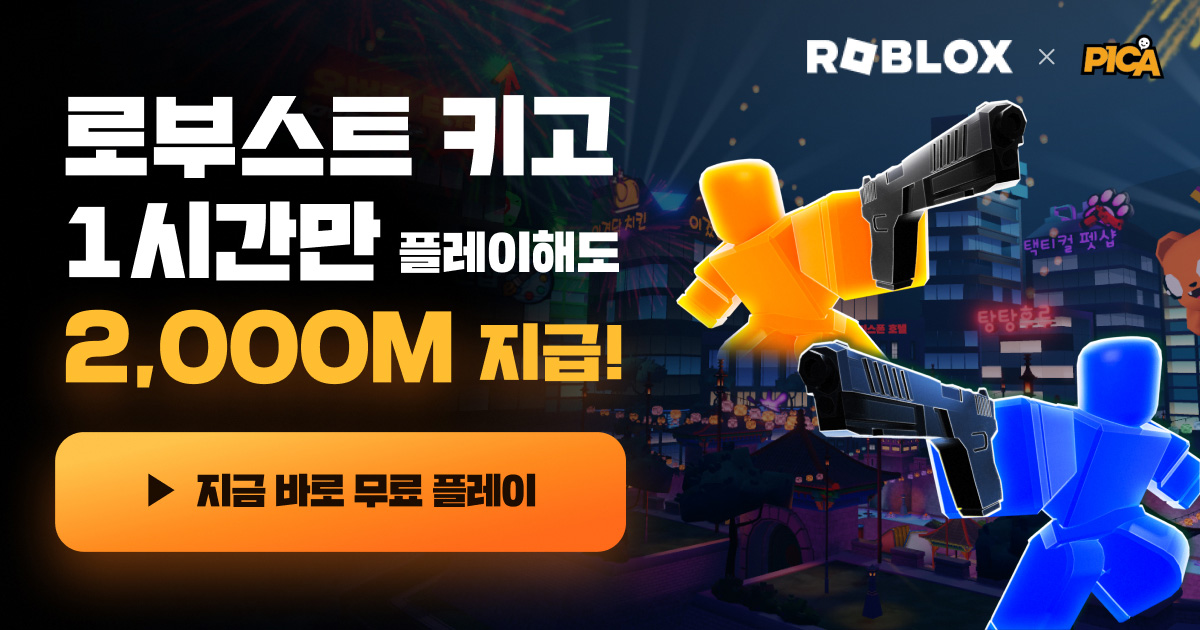
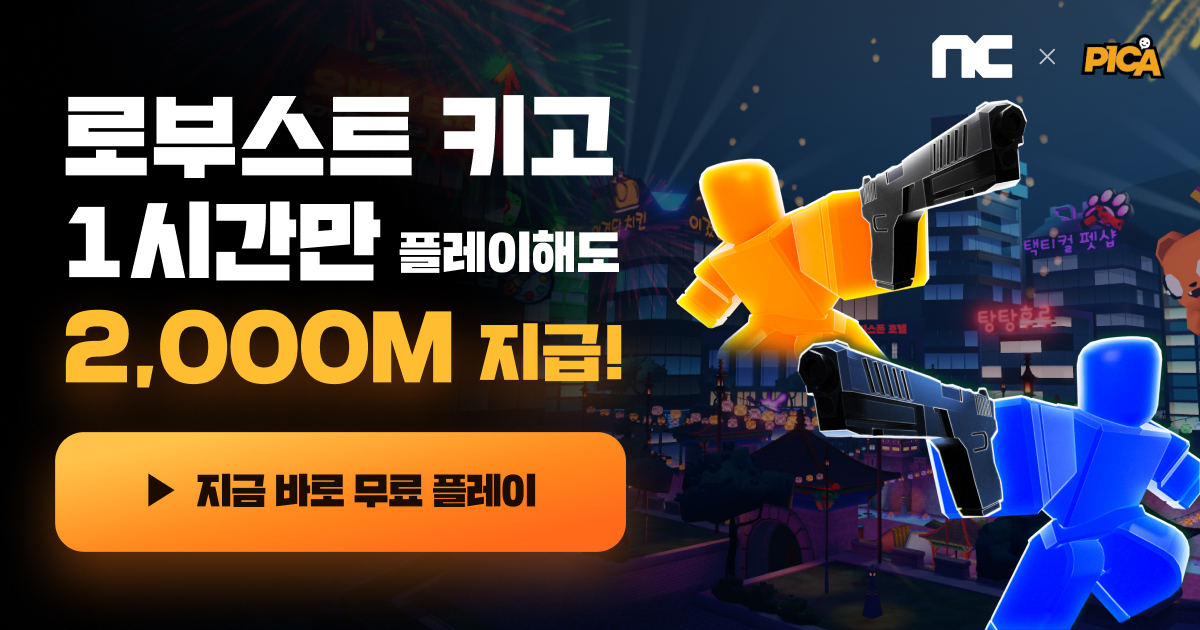
Add files via upload

Changed region(s): [[0.6475, 0.0302, 0.8633, 0.1206], [0.8942, 0.0603, 0.9867, 0.1206]]

diff --git a/index.html b/index.html
@@ -874,13 +874,13 @@ window.__IMG = {
 /* Shared event content — copy kept verbatim from the 기획서 (planning doc). */
 window.EVENT = {
   links: {
-    roboost: "roboost://open",
+    roboost: "http://roboost.gg/start",
     picabang: "https://www.picaplay.com/pcbang/main.do",
     guide: "https://ics.mediaweb.co.kr/_event/20231115_picapayGuide/picapay.html",
   },
   assets: {
     kv: "assets/kv-hero.jpg",
-    roblox: "assets/nc_logo.png",
+    roblox: "assets/NC.png",
     picapc: "assets/picapc_logo.png",
     roboostImg: "assets/launcher.webp",
     roboostLogo: "assets/roboost-logo.png",
@@ -936,7 +936,7 @@ window.EVENT = {
         "로부스트 런처 실행하고,\n오버킬 1시간 이상 플레이하기",
         "피카플레이 APP 또는 크래프트박스\n마이페이지에서 지급된 마일리지 확인하기",
       ],
-      note: "※ 오버킬 외 런처 내 등록된 게임 3종(99 야간 숲, 브레인 롯 훔치기, 댄디스 월드) 플레이 시에도 참여 가능합니다.",
+      note: "※ 오버킬 외 런처 내 등록된 게임 4종 (99 나이트 인더 포레스트, 브레인롯 훔치기, 댄디스 월드, 이베이드) 플레이 시에도 참여 가능합니다.",
     },
   },
   benefits: {
@@ -948,11 +948,12 @@ window.EVENT = {
       { t: "PC방 전용 인게임 코드", d: "PC방에서만 지급되는\n한정판 인게임 코드를 획득하세요!", icon: "code", img: "assets/bic-03.png" },
       { t: "PC방 무료 스킨", d: "오직 PC방에서만!\n무료로 스킨을 이용하세요!", icon: "skin", img: "assets/bic-04.png" },
     ],
-    cta: "지금 바로 무료 플레이",
+    cta: "지금 플레이",
+
   },
   ip: {
     title: "로부스트로 더 플레이",
-    lead: "오버킬 외에도 로부스트로 플레이 가능한 인기 게임 3종, PC방 혜택까지 챙기세요!",
+    lead: "오버킬 외에도 로부스트로 플레이 가능한 인기 게임 4종, PC방 혜택까지 챙기세요!",
     items: [
       { name: "", nameImg: "assets/01_game.png", en: "더 오래 생존!", img: "assets/ip-99nights.jpg", tag: "서바이벌", fit: "cover", link: "https://www.roboost.gg/posts/benefits/99-nights-in-the-forest",
         benefitLines: ["런마다 탄약·스튜·붕대 지급"] },
@@ -960,8 +961,8 @@ window.EVENT = {
         benefitLine: { text: "Ichor ", em: "+15%" } },
       { name: "", nameImg: "assets/03_game.png", en: "더 빠른 성장!", img: "assets/ip-brainrot.webp", tag: "수집 경쟁", fit: "contain", link: "https://www.roboost.gg/posts/benefits/steal-a-brainrot",
         benefitLine: { text: "게임 머니 ", em: "x2" } },
-      { name: "", nameImg: "assets/04_game.png", en: "친구와 함께 더 재밌게", img: "assets/icontest2.png", tag: "PC방 혜택", fit: "cover",
-        benefitLines: ["토큰+경험치 부스트+15%"] },
+      { name: "", nameImg: "assets/04_game.png", en: "친구와 함께 더 재밌게!", img: "assets/icontest2.png", tag: "PC방 혜택", fit: "cover",
+        benefitLine: { text: "토큰+경험치 부스트 ", em: "+20%" } },
     ],
   },
   terms: {
@@ -1274,12 +1275,12 @@ function SuanB({ D, pcOn, setPcOn }) {
         <div className="sb-benefit-section reveal">
           <div className="sb-bsec-hd"><span className="bsec-num">01</span><h3>PC방 7일 출석부</h3><span className="bsec-badge">상시 혜택</span></div>
           <div className="sb-bsec-bd">
-            <p className="sb-bsec-note">PC방 접속 시 1~7일차 별 입자 별 보상이 지급됩니다. (7일 이후 반복)</p>
+            <p className="sb-bsec-note">PC방 접속 시 1~7일차 별 일자 별 보상이 지급됩니다. (7일 이후 반복)</p>
             <div className="sb-attend">
               <div className="sb-aday"><div className="sb-aday__lbl">1일차</div><div className="sb-aday__box"><img src="assets/add_assets/crown.png" alt="" /></div><div className="sb-aday__txt">크라운<br/>x 5</div></div>
-              <div className="sb-aday"><div className="sb-aday__lbl">2일차</div><div className="sb-aday__box"><img src="assets/add_assets/spraycan_blue.png" alt="" /></div><div className="sb-aday__txt">스프레이 캔<br/></div></div>
+              <div className="sb-aday"><div className="sb-aday__lbl">2일차</div><div className="sb-aday__box"><img src="assets/add_assets/spraycan_blue.png" alt="" /></div><div className="sb-aday__txt">스프레이 캔<br/>x 1</div></div>
               <div className="sb-aday"><div className="sb-aday__lbl">3일차</div><div className="sb-aday__box"><img src="assets/add_assets/crown.png" alt="" /></div><div className="sb-aday__txt">크라운<br/>x 15</div></div>
-              <div className="sb-aday"><div className="sb-aday__lbl">4일차</div><div className="sb-aday__box"><img src="assets/add_assets/spraycan_blue.png" alt="" /></div><div className="sb-aday__txt">스프레이 캔<br/></div></div>
+              <div className="sb-aday"><div className="sb-aday__lbl">4일차</div><div className="sb-aday__box"><img src="assets/add_assets/spraycan_blue.png" alt="" /></div><div className="sb-aday__txt">스프레이 캔<br/>x 2</div></div>
               <div className="sb-aday"><div className="sb-aday__lbl">5일차</div><div className="sb-aday__box"><img src="assets/add_assets/crown.png" alt="" /></div><div className="sb-aday__txt">크라운<br/>x 30</div></div>
               <div className="sb-aday"><div className="sb-aday__lbl">6일차</div><div className="sb-aday__box"><img src="assets/add_assets/finisherpack1.png" alt="" /></div><div className="sb-aday__txt">피니셔 팩<br/>x 1</div></div>
               <div className="sb-aday sb-aday--final"><div className="sb-aday__lbl">7일차</div><div className="sb-aday__box"><img src="assets/add_assets/DevP_Crate3.png" alt="" /></div><div className="sb-aday__txt">레어 확정<br/>스킨 상자 x 1</div></div>
@@ -1363,9 +1364,9 @@ function SuanB({ D, pcOn, setPcOn }) {
         </div>
 
         <div className="sb-bigbanner sb-bigbanner--cards reveal" style={{ marginTop: 44 }}>
-          <p>오버킬 외에도 현재 로부스트로 플레이 가능한 <b>로블록스 게임 3종</b>에 대한<br />PC방 혜택도 준비되어 있으니 꼭 <b>로부스트로 플레이</b>하세요!</p>
+          <p>오버킬 외에도 현재 로부스트로 플레이 가능한 <b>로블록스 게임 4종</b>에 대한<br />PC방 혜택도 준비되어 있으니 꼭 <b>로부스트로 플레이</b>하세요!</p>
 
-          {/* 로부스트로 더 플레이 (IP 3종) */}
+          {/* 로부스트로 더 플레이 (IP 4종) */}
           <div className="sb-ip" style={{ marginTop: 30 }}>
           {D.ip.items.map((g, i) =>
               <a className={`sb-ipcard reveal ${i % 2 ? 'r' : ''}`} key={i} href={g.link || D.links.roboost} target="_blank" rel="noopener">
@@ -1448,7 +1449,7 @@ ReactDOM.createRoot(document.getElementById('root')).render(<App />);
         </button>
         <button type="button" class="share-item share-item--instagram" data-share="instagram" aria-label="인스타그램 공유용 URL 복사">
           <span class="share-item__icon" aria-hidden="true">
-            <svg viewBox="0 0 24 24" fill="currentColor"><path d="M12 2.2c3.2 0 3.6 0 4.8.1 1.2.1 1.8.3 2.2.4.6.2 1 .5 1.4 1 .5.4.8.8 1 1.4.2.4.4 1 .4 2.2.1 1.2.1 1.6.1 4.8s0 3.6-.1 4.8c-.1 1.2-.3 1.8-.4 2.2-.2.6-.5 1-1 1.4-.4.5-.8.8-1.4 1-.4.2-1 .4-2.2.4-1.2.1-1.6.1-4.8.1s-3.6 0-4.8-.1c-1.2-.1-1.8-.3-2.2-.4-.6-.2-1-.5-1.4-1-.5-.4-.8-.8-1-1.4-.2-.4-.4-1-.4-2.2-.1-1.2-.1-1.6-.1-4.8s0-3.6.1-4.8c.1-1.2.3-1.8.4-2.2.2-.6.5-1 1-1.4.4-.5.8-.8 1.4-1 .4-.2 1-.4 2.2-.4C8.4 2.2 8.8 2.2 12 2.2zm0 2.2c-3.1 0-3.5 0-4.7.1-1.1.1-1.7.2-2.1.4-.5.2-.9.4-1.2.8-.4.3-.6.7-.8 1.2-.1.4-.3 1-.4 2.1-.1 1.2-.1 1.6-.1 4.7s0 3.5.1 4.7c.1 1.1.2 1.7.4 2.1.2.5.4.9.8 1.2.3.4.7.6 1.2.8.4.1 1 .3 2.1.4 1.2.1 1.6.1 4.7.1s3.5 0 4.7-.1c1.1-.1 1.7-.2 2.1-.4.5-.2.9-.4 1.2-.8.4-.3.6-.7.8-1.2.1-.4.3-1 .4-2.1.1-1.2.1-1.6.1-4.7s0-3.5-.1-4.7c-.1-1.1-.2-1.7-.4-2.1-.2-.5-.4-.9-.8-1.2-.3-.4-.7-.6-1.2-.8-.4-.1-1-.3-2.1-.4-1.2-.1-1.6-.1-4.7-.1zm0 3.7a4.1 4.1 0 1 1 0 8.2 4.1 4.1 0 0 1 0-8.2zm0 6.7a2.6 2.6 0 1 0 0-5.2 2.6 2.6 0 0 0 0 5.2zm5.2-6.9a1 1 0 1 1-2 0 1 1 0 0 1 2 0z"/></svg>
+            <svg viewBox="0 0 24 24" fill="currentColor"><path d="M12 2.163c3.204 0 3.584.012 4.85.07 3.252.148 4.771 1.691 4.919 4.919.058 1.265.069 1.645.069 4.849 0 3.205-.012 3.584-.069 4.849-.149 3.225-1.664 4.771-4.919 4.919-1.266.058-1.644.07-4.85.07-3.204 0-3.584-.012-4.849-.07-3.26-.149-4.771-1.699-4.919-4.92-.058-1.265-.07-1.644-.07-4.849 0-3.204.013-3.583.07-4.849.149-3.227 1.664-4.771 4.919-4.919 1.266-.057 1.645-.069 4.849-.069zm0-2.163c-3.259 0-3.667.014-4.947.072-4.358.2-6.78 2.618-6.98 6.98-.059 1.281-.073 1.689-.073 4.948 0 3.259.014 3.668.072 4.948.2 4.358 2.618 6.78 6.98 6.98 1.281.058 1.689.072 4.948.072 3.259 0 3.668-.014 4.948-.072 4.354-.2 6.782-2.618 6.979-6.98.059-1.28.073-1.689.073-4.948 0-3.259-.014-3.667-.072-4.947-.196-4.354-2.617-6.78-6.979-6.98-1.281-.059-1.69-.073-4.949-.073zm0 5.838c-3.403 0-6.162 2.759-6.162 6.162s2.759 6.163 6.162 6.163 6.162-2.759 6.162-6.163c0-3.403-2.759-6.162-6.162-6.162zm0 10.162c-2.209 0-4-1.79-4-4 0-2.209 1.791-4 4-4s4 1.791 4 4c0 2.21-1.791 4-4 4zm6.406-11.845c-.796 0-1.441.645-1.441 1.44s.645 1.44 1.441 1.44c.795 0 1.439-.645 1.439-1.44s-.644-1.44-1.439-1.44z"/></svg>
           </span>
           <span class="share-item__label">인스타그램</span>
         </button>
